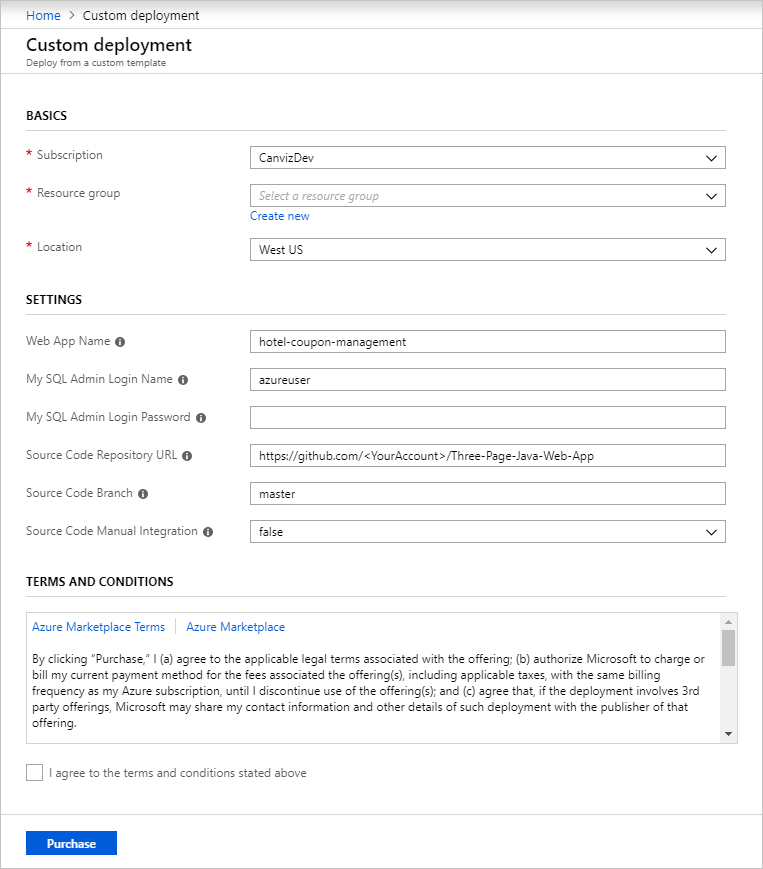
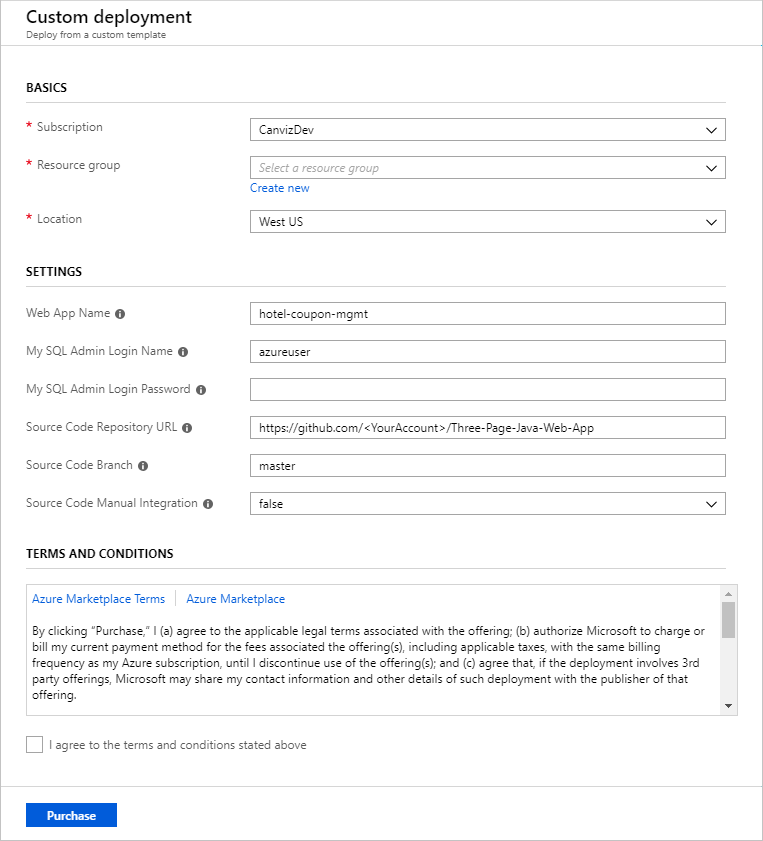
Check in new changes

diff --git a/README.md b/README.md
@@ -38,7 +38,7 @@ As you add and update tasks in the app you can verify the changes in the databas
 
    - Enter a value in the **Token description** text box.
 
-   - Select the following s (your selections should match the screenshot below):
+   - Select the following scopes (your selections should match the screenshot below):
 
      - repo (all) -> repo:status, repo_deployment, public_repo
      - admin:repo_hook -> read:repo_hook
@@ -67,24 +67,24 @@ As you add and update tasks in the app you can verify the changes in the databas
 
    - Click **PUT**.
 
-   ### Deploy Azure Components
+### Deploy Azure Components
 
-   1. Fork this repository to your GitHub account.
+1. Fork this repository to your GitHub account.
 
-   2. Click the Deploy to Azure Button:
+2. Click the Deploy to Azure Button:
 
-      [![Deploy to Azure](https://camo.githubusercontent.com/9285dd3998997a0835869065bb15e5d500475034/687474703a2f2f617a7572656465706c6f792e6e65742f6465706c6f79627574746f6e2e706e67)](https://portal.azure.com/#create/Microsoft.Template/uri/https%3A%2F%2Fraw.githubusercontent.com%2FTylerLu%2FThree-Page-Java-Web-App%2Fmaster%2Fazuredeploy.json)
+    [![Deploy to Azure](https://camo.githubusercontent.com/9285dd3998997a0835869065bb15e5d500475034/687474703a2f2f617a7572656465706c6f792e6e65742f6465706c6f79627574746f6e2e706e67)](https://portal.azure.com/#create/Microsoft.Template/uri/https%3A%2F%2Fraw.githubusercontent.com%2FTylerLu%2FThree-Page-Java-Web-App%2Fmaster%2Fazuredeploy.json)
 
-   3. Fill in the values on the deployment page:
+3. Fill in the values on the deployment page:
 
-      [![img](images/azure-deploy.png)](https://github.com/TylerLu/Huddle/blob/master/Images/azure-deploy.png)
+    [![img](images/azure-deploy.png)](https://github.com/TylerLu/Huddle/blob/master/Images/azure-deploy.png)
 
-      - **Web App Name**: the name of the web app. It should be unique. It is recommended to use a name like `hotel-coupon-mgmt-<YourName>-<Date>`, for example: `hotel-coupon-mgmt-bob-180129`
-      - **MySQL Admin Login Name**: The admin login of the MySQL server.
-      - **MySQL Admin Login Password**: The admin login password of the MySQL server.
-      - **Source Code Repository**: use the URL of the repository you just created -`https://github.com/<YourAccount>/Huddle`
-      - **Source Code Branch**: master
-      - **Source code Manual Integration**: false
-      - Check **I agree to the terms and conditions stated above**.
+    - **Web App Name**: the name of the web app. It should be unique. It is recommended to use a name like `hotel-coupon-mgmt-<YourName>-<Date>`, for example: `hotel-coupon-mgmt-bob-180129`
+    - **MySQL Admin Login Name**: The admin login of the MySQL server.
+    - **MySQL Admin Login Password**: The admin login password of the MySQL server.
+    - **Source Code Repository**: use the URL of the repository you just created -`https://github.com/<YourAccount>/Huddle`
+    - **Source Code Branch**: master
+    - **Source code Manual Integration**: false
+    - Check **I agree to the terms and conditions stated above**.
 
-   4. Click **Purchase**.
+4. Click **Purchase**.
